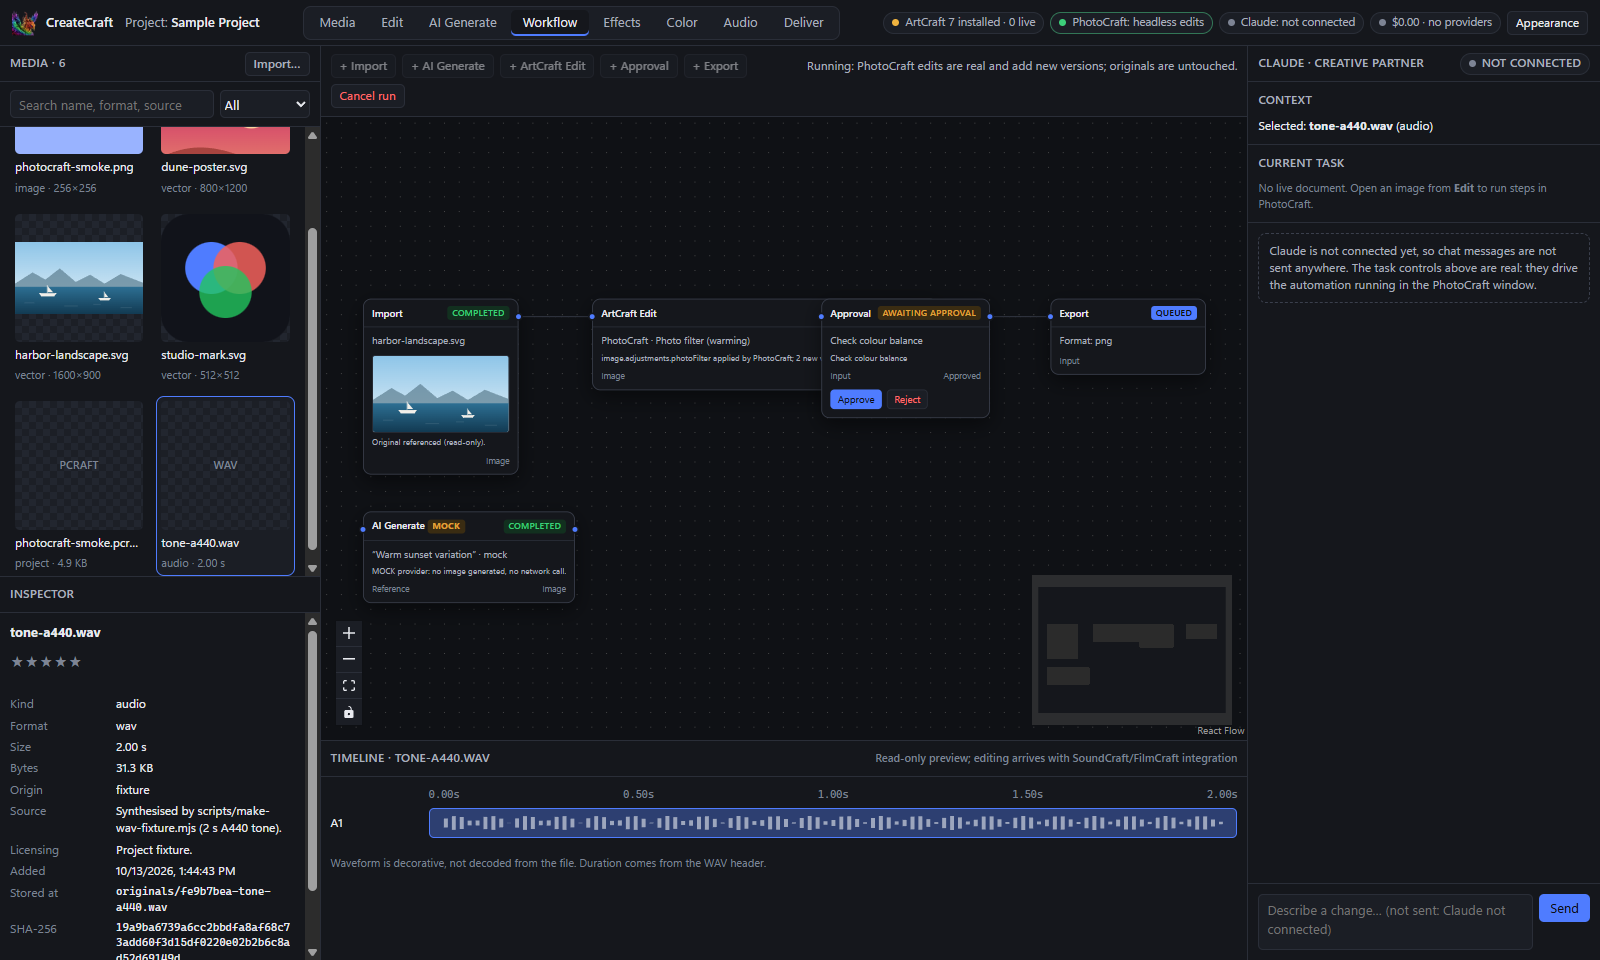
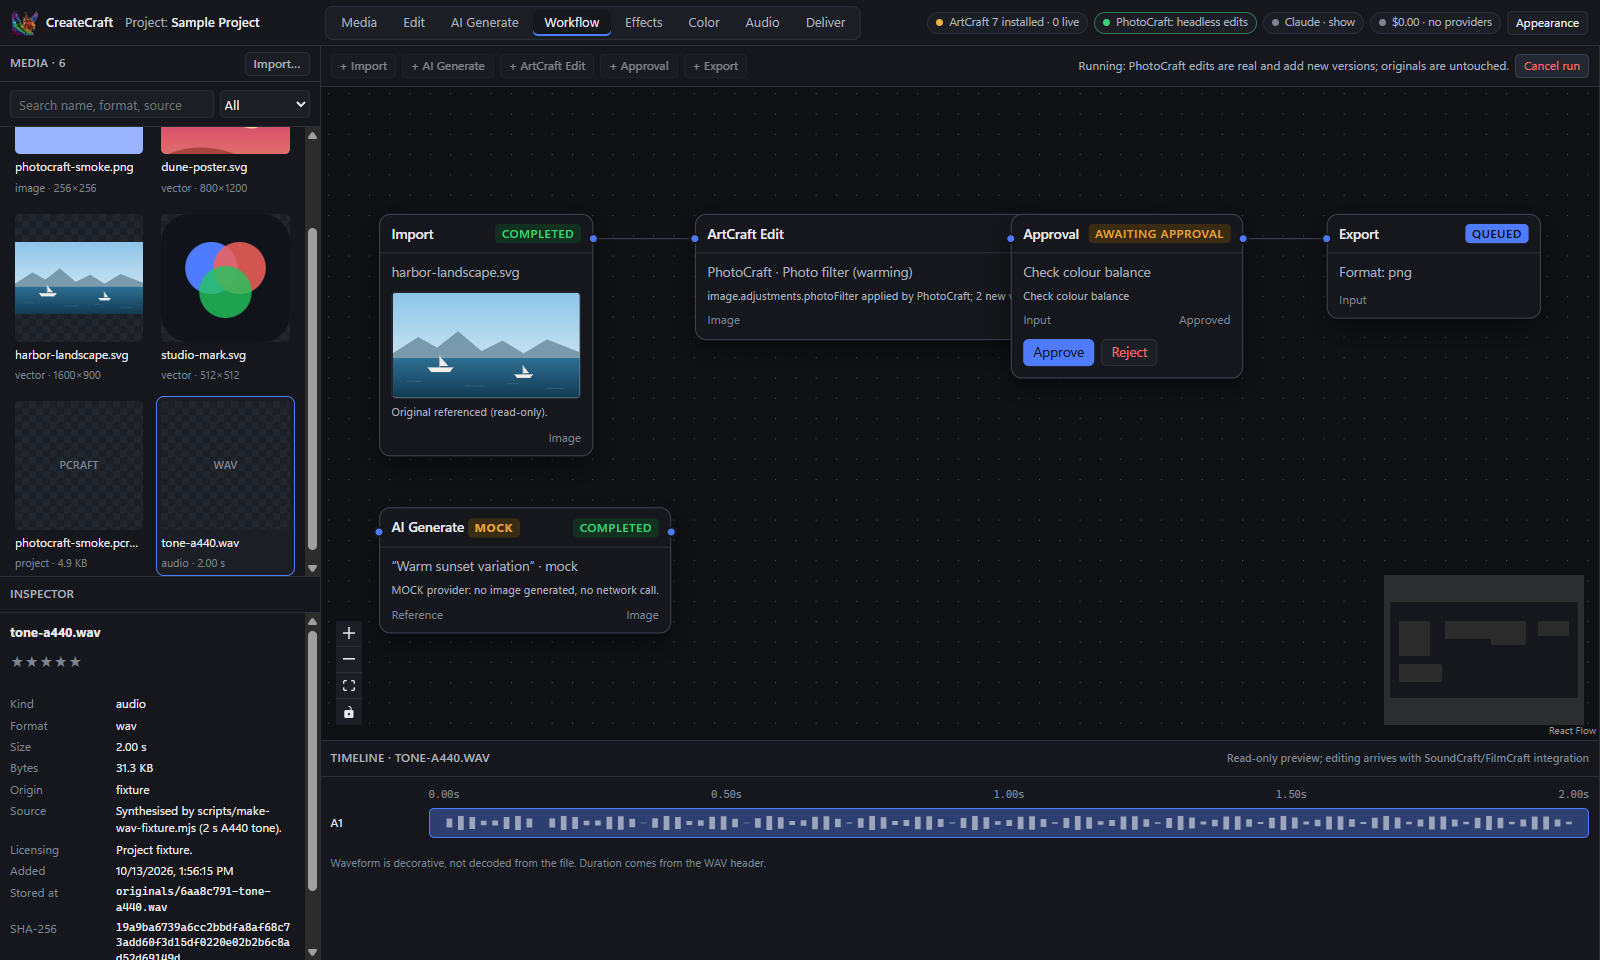
Edit tab: app fills the area, no flash on launch, Claude panel minimized
- Remove the edit list (edit with the app's own tools); top bar keeps Undo,
  Save as new version and Open in its own window. Pop-out panel trimmed.
- No flash: a pre-started window tracker is handed each app's pid at
  launch and moves its window off-screen the moment it appears (DWM cloak
  is refused cross-process); it is revealed only once placed in the Edit
  area or popped out.
- Claude panel starts collapsed; header Claude button toggles it (remembered).
- Live smoke 21/21, basic smoke 15/15, unit tests 64.

diff --git a/creative-studio/src/renderer/src/components/EditWorkspace.tsx b/creative-studio/src/renderer/src/components/EditWorkspace.tsx
@@ -2,7 +2,6 @@ import { useEffect, useLayoutEffect, useRef } from 'react';
 import { editorFor, type EditorApp } from '@shared/appEditors';
 import type { Asset, ProjectManifest } from '@shared/types';
 import type { LiveApi } from '../useLive';
-import { EditTools } from './live/EditTools';
 import { isTaskActive } from './live/LiveParts';
 
 interface Props {
@@ -18,9 +17,9 @@ const LIVE = new Set(['photocraft', 'vectorcraft', 'soundcraft']);
 
 /**
  * Edit tab: the selected file opens automatically in its ArtCraft app, shown right here in the
- * big area. Edits on the right apply in the app; "Open in its own window" pops the app out.
+ * big area, where you edit with the app's own tools. "Open in its own window" pops the app out.
  */
-export function EditWorkspace({ manifest, selected, liveApi, onProjectChanged, onSelectAsset, log }: Props) {
+export function EditWorkspace({ selected, liveApi, onProjectChanged }: Props) {
   const { live, busy, act } = liveApi;
   const app = selected ? editorFor(selected.sourceFormat) : null;
   const canLive = !!app && LIVE.has(app.id);
@@ -86,11 +85,6 @@ export function EditWorkspace({ manifest, selected, liveApi, onProjectChanged, o
         <div className="edit-stage" ref={stageRef}>
           <Stage asset={selected} app={app} live={liveApi.live} showingThis={!!showingThis} />
         </div>
-        <aside className="edit-tools" aria-label="Edits">
-          {app && canLive
-            ? <EditTools app={app} asset={selected} manifest={manifest} liveApi={liveApi} enabled={!!showingThis} onProjectChanged={onProjectChanged} onSelectAsset={onSelectAsset} log={log} />
-            : <div className="edit-tools-empty"><h3>Edits</h3><p className="asset-meta">{app?.note ?? `No ArtCraft app edits ${selected.sourceFormat.toUpperCase()} files yet.`}</p></div>}
-        </aside>
       </div>
     </div>
   );
@@ -103,6 +97,7 @@ function Stage({ asset, app, live, showingThis }: { asset: Asset; app: EditorApp
   if (live?.status === 'starting') status = `Opening in ${app?.name ?? 'the app'}…`;
   else if (live?.status === 'error' && !showingThis) status = live.error ?? 'The app could not be opened.';
   else if (showingThis && live?.poppedOut) status = `${app?.name} is open in its own window.`;
+  else if (!app || app.open === 'none') status = app?.note ?? `No ArtCraft app edits ${asset.sourceFormat.toUpperCase()} files yet.`;
   return (
     <div className="stage-art">
       {viewable && <img src={window.studio.assetUrl(asset.id)} alt={asset.name} />}

diff --git a/creative-studio/src/main/embeddedApp.ts b/creative-studio/src/main/embeddedApp.ts
@@ -19,12 +19,31 @@ export class EmbeddedApp {
   private embeddedOnce = false;
   private viewport: Viewport | null = null;
   mode: EmbedMode = 'embedded';
+  /** A tracker already compiled and waiting, so a new app window can be caught the instant it appears. */
+  private spare: WindowTracker | null = null;
 
   constructor(
     private readonly host: () => BrowserWindow | null,
     private readonly script: string,
     private readonly onGone: () => void,
   ) {}
+
+  /** Starts a waiting tracker (call once the app is up; again after each use). */
+  prewarm() {
+    if (!this.spare) this.spare = new WindowTracker(this.script, 0, 0n, true);
+  }
+
+  /**
+   * Call right after launching an app: its window is moved off-screen the moment it appears and
+   * only revealed once it is placed inside the Edit area (no flash of the app on its own).
+   */
+  prepare(pid: number) {
+    const t = this.spare ?? new WindowTracker(this.script, 0, 0n, true);
+    this.spare = null;
+    t.target(pid);
+    this.adopt(pid, t);
+    setTimeout(() => this.prewarm(), 2000);
+  }
 
   get attachedPid(): number | null { return this.pid; }
 
@@ -38,11 +57,14 @@ export class EmbeddedApp {
   /** Follows the app window of `pid`. A previously attached app is handed back as a normal, minimized window. */
   attach(pid: number) {
     if (this.pid === pid && this.tracker) { this.apply(); return; }
+    this.adopt(pid, new WindowTracker(this.script, pid, 0n));
+  }
+
+  private adopt(pid: number, t: WindowTracker) {
     this.release(true);
     this.pid = pid;
     this.found = false;
     this.embeddedOnce = false;
-    const t = new WindowTracker(this.script, pid, 0n);
     this.tracker = t;
     t.on('state', (s: TrackedWindowState) => {
       if (this.tracker !== t) return;
@@ -70,6 +92,7 @@ export class EmbeddedApp {
     const content = host.getContentBounds();
     const dip = { x: content.x + v.x, y: content.y + v.y, width: v.width, height: v.height };
     t.move(screen.dipToScreenRect(host, dip));
+    t.uncloak();
     t.show();
   }
 
@@ -79,6 +102,7 @@ export class EmbeddedApp {
     const t = this.tracker;
     if (!t) return;
     t.unembed();
+    t.uncloak();
     this.embeddedOnce = false;
     const host = this.host();
     if (host && this.viewport) {
@@ -103,6 +127,7 @@ export class EmbeddedApp {
     this.found = false;
     if (!t) return;
     t.unembed();
+    t.uncloak();
     if (minimize) t.minimize(); else t.show();
     setTimeout(() => t.stop(), 300);
   }

diff --git a/creative-studio/src/renderer/src/App.tsx b/creative-studio/src/renderer/src/App.tsx
@@ -1,5 +1,5 @@
 import { useCallback, useEffect, useMemo, useState } from 'react';
-import { Group, Panel, Separator, useDefaultLayout } from 'react-resizable-panels';
+import { Group, Panel, Separator, useDefaultLayout, usePanelRef } from 'react-resizable-panels';
 import type { IntegrationSnapshot } from '@shared/ipc';
 import type { AppProbeResult, ProjectManifest, WorkspaceId } from '@shared/types';
 import { AssetBrowser } from './components/AssetBrowser';
@@ -46,6 +46,16 @@ export function App() {
   const selected = useMemo(() => manifest?.assets.find((a) => a.id === selectedId) ?? null, [manifest, selectedId]);
 
   const outer = useDefaultLayout({ id: 'cs-outer', storage });
+  // Claude panel starts minimized; the header's Claude button opens/closes it (remembered).
+  const claudeRef = usePanelRef();
+  const [claudeOpen, setClaudeOpen] = useState(() => { try { return storage?.getItem('cs-claude-open') === '1'; } catch { return false; } });
+  useEffect(() => {
+    const p = claudeRef.current;
+    if (!p) return;
+    if (claudeOpen && p.isCollapsed()) p.expand();
+    if (!claudeOpen && !p.isCollapsed()) p.collapse();
+    try { storage?.setItem('cs-claude-open', claudeOpen ? '1' : '0'); } catch { /* storage unavailable */ }
+  }, [claudeOpen, claudeRef]);
   const center = useDefaultLayout({ id: 'cs-center', storage });
 
   return (
@@ -57,6 +67,8 @@ export function App() {
         apps={apps}
         integrations={integrations}
         appearance={appearance}
+        claudeOpen={claudeOpen}
+        onToggleClaude={() => setClaudeOpen((o) => !o)}
       />
       {error && <div className="notice" role="alert">Could not load project: {error}</div>}
       <div className="main">
@@ -96,7 +108,8 @@ export function App() {
             </Group>
           </Panel>
           <Separator className="sep" />
-          <Panel id="right" defaultSize="22" minSize={260} collapsible>
+          <Panel id="right" defaultSize="22" minSize={260} collapsible collapsedSize={0} panelRef={claudeRef}
+            onResize={() => { const c = claudeRef.current?.isCollapsed() ?? false; if (c === claudeOpen) setClaudeOpen(!c); }}>
             <ClaudePanel selected={selected} integrations={integrations} liveApi={liveApi} />
           </Panel>
         </Group>

diff --git a/creative-studio/src/main/ipc.ts b/creative-studio/src/main/ipc.ts
@@ -150,11 +150,13 @@ export function registerIpc(d: IpcDeps): void {
       vectorcraft: path.join(store.root, 'work', 'vectorcraft-live'),
       soundcraft: path.join(store.root, 'work', 'soundcraft-live'),
     };
+    // Catch each app's window the moment it appears so it never flashes up on its own.
+    const onSpawn = (pid: number) => d.embedded.prepare(pid);
     const driver = (app: EditorAppId) => {
       if (drivers[app]) return drivers[app]!;
-      if (app === 'photocraft') drivers[app] = new LivePhotoCraft({ installDir: PFdir('PhotoCraft'), secretsDir: d.secretsDir, readRoot: store.root, writeRoot: roots.photocraft });
-      else if (app === 'vectorcraft') drivers[app] = new LiveVectorCraft({ installDir: PFdir('VectorCraft'), readRoot: store.root, writeRoot: roots.vectorcraft });
-      else if (app === 'soundcraft') drivers[app] = new LiveSoundCraft({ installDir: PFdir('SoundCraft'), readRoot: store.root, writeRoot: roots.soundcraft });
+      if (app === 'photocraft') drivers[app] = new LivePhotoCraft({ installDir: PFdir('PhotoCraft'), secretsDir: d.secretsDir, readRoot: store.root, writeRoot: roots.photocraft, onSpawn });
+      else if (app === 'vectorcraft') drivers[app] = new LiveVectorCraft({ installDir: PFdir('VectorCraft'), readRoot: store.root, writeRoot: roots.vectorcraft, onSpawn });
+      else if (app === 'soundcraft') drivers[app] = new LiveSoundCraft({ installDir: PFdir('SoundCraft'), readRoot: store.root, writeRoot: roots.soundcraft, onSpawn });
       else throw new Error(`${app} can't be opened live.`);
       return drivers[app]!;
     };
@@ -200,7 +202,7 @@ export function registerIpc(d: IpcDeps): void {
     const pid = await currentPid();
     if (pid) {
       d.embedded.attach(pid);
-      if (d.embedded.mode === 'window') { d.panel.close(); await d.panel.open(pid); ctl.setPoppedOut(true); return ctl.snapshot(); }
+      if (d.embedded.mode === 'window') { d.embedded.popOut(); d.panel.close(); await d.panel.open(pid); ctl.setPoppedOut(true); return ctl.snapshot(); }
     }
     return s;
   });

diff --git a/creative-studio/src/renderer/src/components/Header.tsx b/creative-studio/src/renderer/src/components/Header.tsx
@@ -23,9 +23,11 @@ interface Props {
   apps: AppProbeResult[];
   integrations: IntegrationSnapshot | null;
   appearance: ReturnType<typeof useAppearance>;
+  claudeOpen: boolean;
+  onToggleClaude: () => void;
 }
 
-export function Header({ projectName, workspace, onWorkspace, apps, integrations, appearance }: Props) {
+export function Header({ projectName, workspace, onWorkspace, apps, integrations, appearance, claudeOpen, onToggleClaude }: Props) {
   const installed = apps.filter((a) => a.installed).length;
   const connected = apps.filter((a) => a.connected).length;
   return (
@@ -46,7 +48,10 @@ export function Header({ projectName, workspace, onWorkspace, apps, integrations
         {integrations?.appAdapters.some((a) => a.id === 'photocraft' && !a.isMock) && (
           <span className="chip real" title="Workflow ArtCraft Edit nodes run the installed photocraft-cli for real (headless). Live window control is not connected yet."><span className="dot" /><span>PhotoCraft<span className="chip-extra">: headless edits</span></span></span>
         )}
-        <span className="chip off" title={integrations?.claude.reason}><span className="dot" /><span>Claude<span className="chip-extra">: not connected</span></span></span>
+        <button className={`chip chip-btn ${claudeOpen ? 'on' : 'off'}`} aria-pressed={claudeOpen} onClick={onToggleClaude}
+          title={`${claudeOpen ? 'Hide' : 'Show'} the Claude panel. ${integrations?.claude.reason ?? ''}`}>
+          <span className="dot" /><span>Claude<span className="chip-extra">{claudeOpen ? ' · hide' : ' · show'}</span></span>
+        </button>
         <span className="chip off" title="No provider keys are configured. Costs: $0."><span className="dot" /><span>$0.00<span className="chip-extra"> · no providers</span></span></span>
         <AppearanceMenu appearance={appearance} />
       </div>

diff --git a/creative-studio/src/main/windowTracker.ts b/creative-studio/src/main/windowTracker.ts
@@ -19,11 +19,12 @@ export class WindowTracker extends EventEmitter<{ state: [TrackedWindowState]; e
   private buf = '';
   last: TrackedWindowState | null = null;
 
-  constructor(scriptPath: string, targetPid: number, panelHwnd: bigint) {
+  /** targetPid 0 = pre-started: call target(pid) later. cloak = hide the window the instant it appears. */
+  constructor(scriptPath: string, targetPid: number, panelHwnd: bigint, cloak = false) {
     super();
     this.proc = spawn('powershell.exe', [
       '-NoProfile', '-NonInteractive', '-ExecutionPolicy', 'Bypass', '-File', scriptPath,
-      '-TargetPid', String(targetPid), '-PanelHwnd', panelHwnd.toString(),
+      '-TargetPid', String(targetPid), '-PanelHwnd', panelHwnd.toString(), ...(cloak ? ['-Cloak'] : []),
     ], { windowsHide: true });
     this.proc.stdout.setEncoding('utf8');
     this.proc.stdout.on('data', (d: string) => {
@@ -48,6 +49,8 @@ export class WindowTracker extends EventEmitter<{ state: [TrackedWindowState]; e
     if (this.proc.exitCode === null && this.proc.stdin.writable) this.proc.stdin.write(cmd + '\n');
   }
 
+  target(pid: number) { this.send(`target ${pid}`); }
+  uncloak() { this.send('uncloak'); }
   own() { this.send('own'); }
   /** Borderless target owned by `host` (stays above it, hides/minimizes with it). */
   embed(host: bigint) { this.send(`embed ${host.toString()}`); }

diff --git a/creative-studio/src/renderer/src/PanelApp.tsx b/creative-studio/src/renderer/src/PanelApp.tsx
@@ -2,7 +2,6 @@ import { useCallback, useEffect, useState } from 'react';
 import { editorFor } from '@shared/appEditors';
 import type { ProjectManifest } from '@shared/types';
 import logo from './assets/logo.png';
-import { EditTools } from './components/live/EditTools';
 import { TaskControls } from './components/live/LiveParts';
 import { useAppearance } from './useAppearance';
 import { useLive } from './useLive';
@@ -41,10 +40,6 @@ export function PanelApp() {
             <h2 style={{ fontSize: 14 }}>Task</h2>
             <TaskControls liveApi={liveApi} />
           </section>
-        )}
-        {app && asset && (
-          <EditTools app={app} asset={asset} manifest={manifest} liveApi={liveApi} enabled={live?.status === 'ready'}
-            onProjectChanged={reload} onSelectAsset={() => {}} log={log} />
         )}
       </div>
     </div>

diff --git a/creative-studio/src/main/liveApps.ts b/creative-studio/src/main/liveApps.ts
@@ -20,6 +20,8 @@ export interface LiveAppOptions {
   installDir: string;
   readRoot: string;
   writeRoot: string;
+  /** Called with the app's process id right after launch (before its window appears). */
+  onSpawn?: (pid: number) => void;
 }
 
 abstract class LiveAppBase implements LiveDoc {
@@ -51,6 +53,7 @@ abstract class LiveAppBase implements LiveDoc {
       env: { ...process.env, ...this.guiEnv() }, stdio: 'ignore', windowsHide: false,
     });
     this.gui = gui;
+    if (gui.pid) this.o.onSpawn?.(gui.pid);
     gui.on('exit', () => { if (this.gui === gui) { this.gui = null; this.mcp?.close(); this.mcp = null; } });
     await waitForPort(port, 30_000, () => gui.exitCode !== null);
     this.mcp = await McpClient.start(path.join(this.o.installDir, `${this.exeName}-cli.exe`), this.bridgeArgs(port));

diff --git a/creative-studio/src/main/photocraftLive.ts b/creative-studio/src/main/photocraftLive.ts
@@ -73,6 +73,8 @@ export interface LivePhotoCraftOptions {
   secretsDir: string;
   readRoot: string;
   writeRoot: string;
+  /** Called with the app's process id right after launch (before its window appears). */
+  onSpawn?: (pid: number) => void;
 }
 
 export class LivePhotoCraft implements LiveDoc {
@@ -117,6 +119,7 @@ export class LivePhotoCraft implements LiveDoc {
       windowsHide: false,
     });
     this.gui = gui;
+    if (gui.pid) this.o.onSpawn?.(gui.pid);
     gui.on('exit', () => { if (this.gui === gui) { this.gui = null; this.mcp?.close(); this.mcp = null; } });
 
     await waitForPort(port, 30_000, () => gui.exitCode !== null);

diff --git a/creative-studio/src/renderer/src/styles.css b/creative-studio/src/renderer/src/styles.css
@@ -329,3 +329,7 @@ h1, h2, h3 { margin: 0; font-weight: 600; }
 .tool-group summary { cursor: pointer; font-size: 12px; color: var(--text-2); padding: 4px 0; }
 .tools-msg { border-top: 1px solid var(--border); padding-top: 8px; }
 .dock-body .tools { padding: 0; }
+
+.chip-btn { cursor: pointer; font: inherit; font-size: 11.5px; }
+.chip-btn:hover { border-color: var(--border-strong); color: var(--text); }
+.chip-btn.on { border-color: var(--accent); color: var(--text); }

diff --git a/creative-studio/src/main/index.ts b/creative-studio/src/main/index.ts
@@ -128,6 +128,7 @@ app.whenReady().then(async () => {
   });
 
   await createWindow();
+  embedded.prewarm();
   app.on('activate', () => { if (BrowserWindow.getAllWindows().length === 0) void createWindow(); });
 });
 
